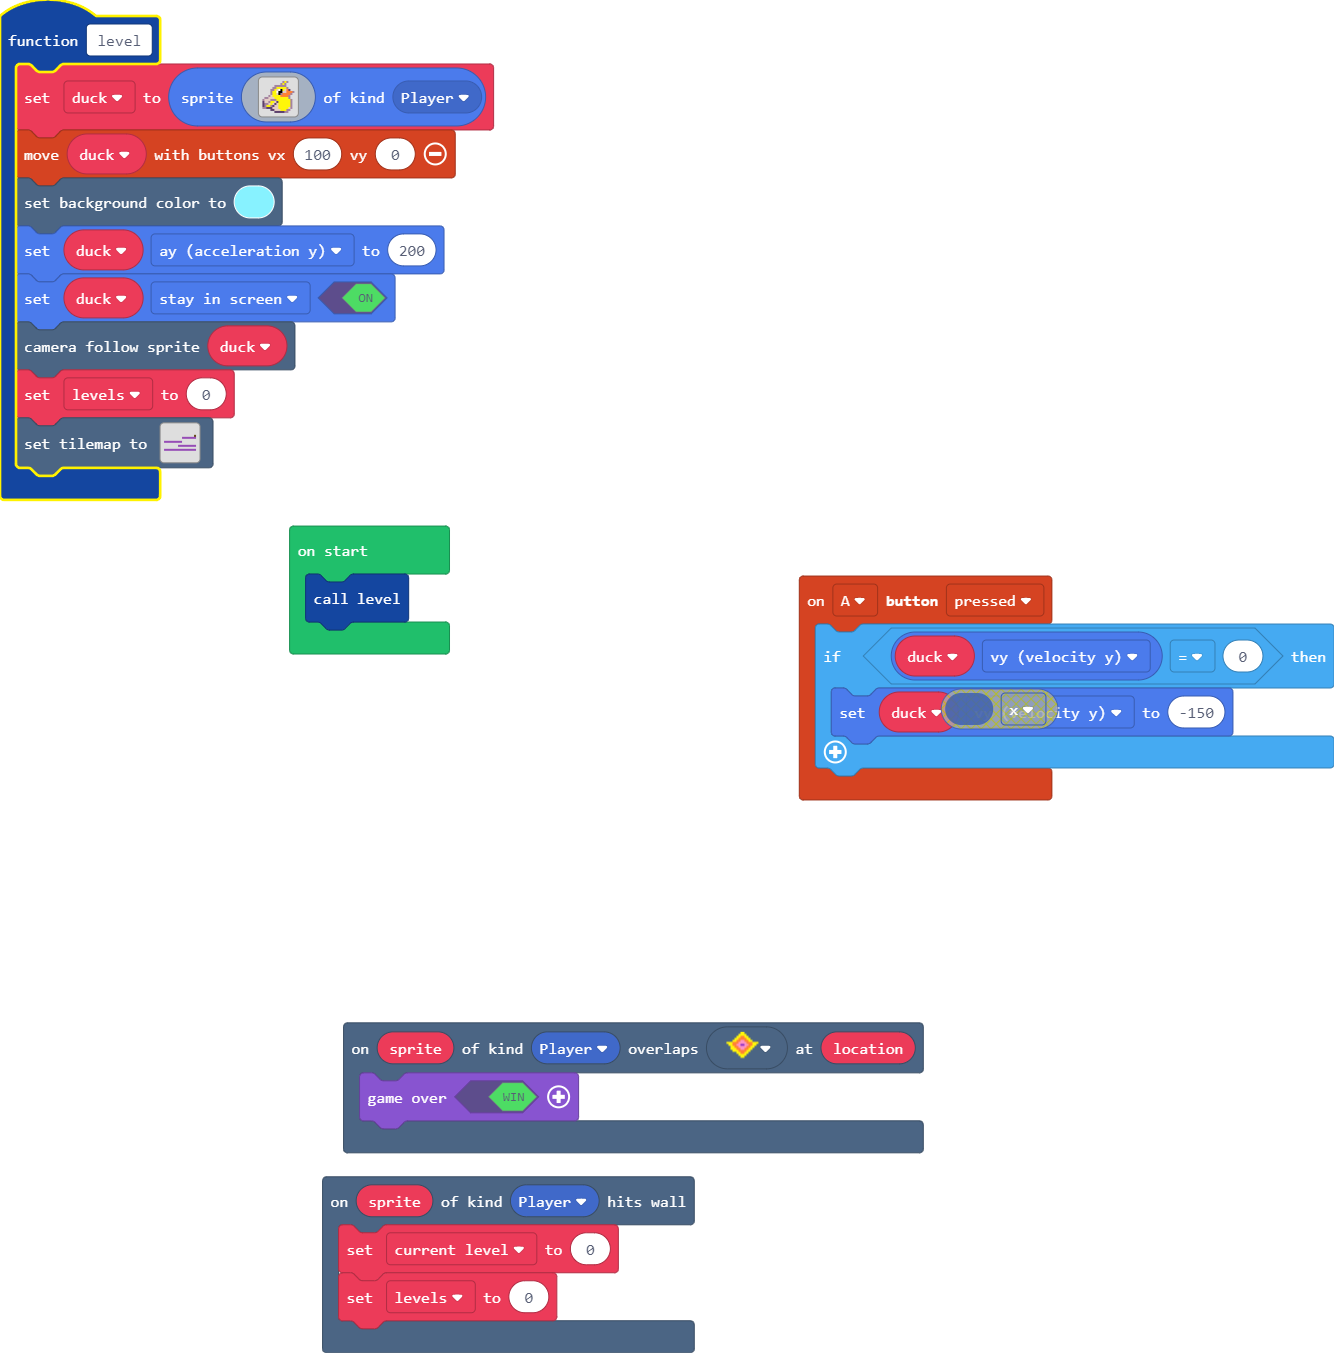
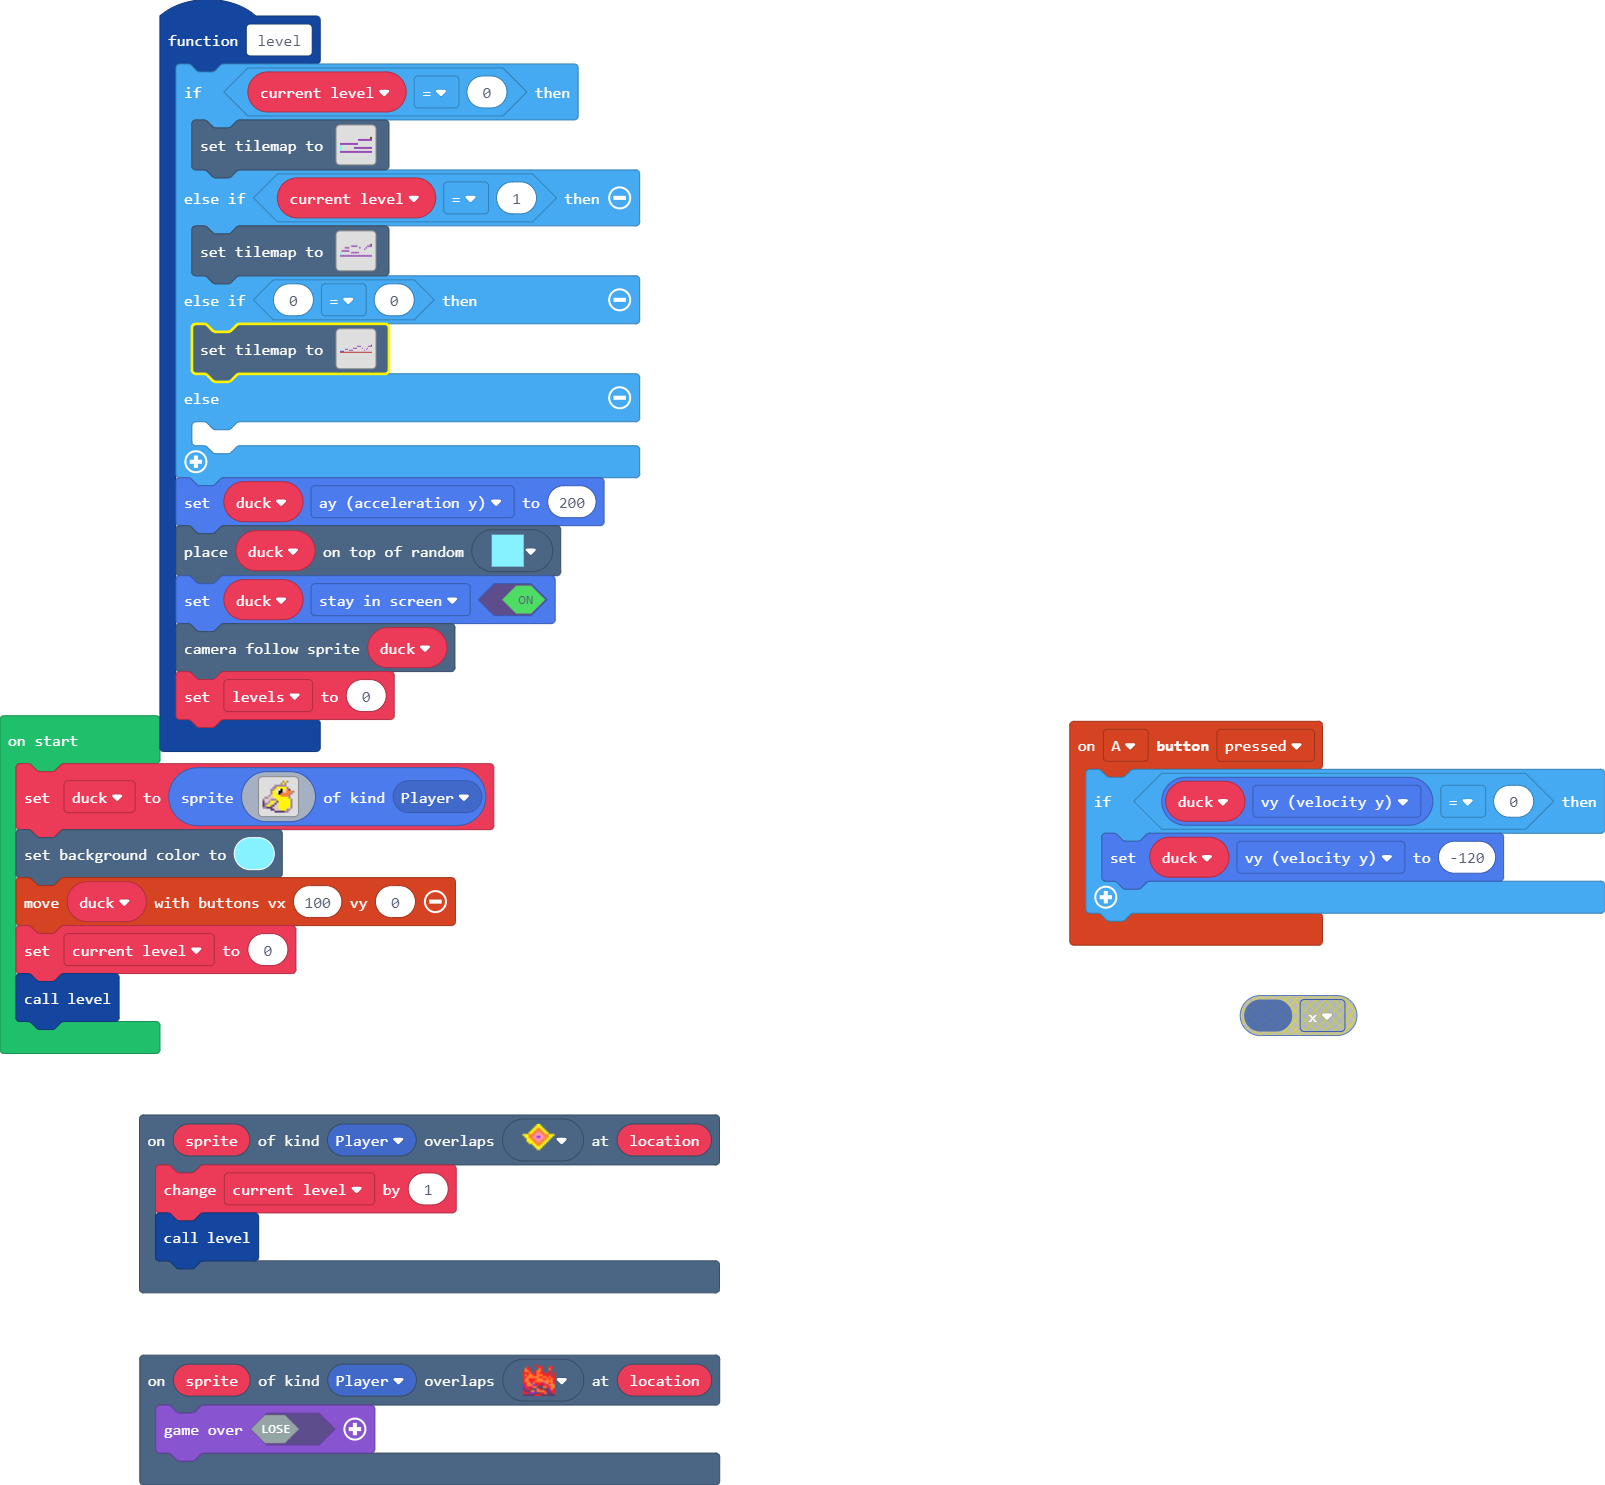
creating new levels and challenges

diff --git a/main.ts b/main.ts
@@ -75,9 +75,176 @@ a a a a a a a a a a a a a a a a
 . . . . . . . . . . . . . . . . 
 . . . . . . . . . . . . . . . . 
 `
+    //% blockIdentity=images._tile
+    export const tile4 = img`
+. . . . . . . . . . . . . . . . 
+. . . . . . . . . . . . . . . . 
+. . . . . . . . . . . . . . . . 
+. . . . . . . . . . . . . . . . 
+. . . . . . . . . . . . . . . . 
+. . . . . . . . . . . . . . . . 
+. . . . . . . . . . . . . . . . 
+. . . . . . . . . . . . . . . . 
+. . . . . . . . . . . . . . . . 
+3 . . . . . . . . . . . . . . . 
+. . . . . . . . . . . . . . . . 
+. . . . . . . . . . . . . . . . 
+. . . . . . . . . . . . . . . . 
+. . . . . . . . . . . . . . . . 
+. . . . . . . . . . . . . . . . 
+. . . . . . . . . . . . . . . . 
+`
+    //% blockIdentity=images._tile
+    export const tile5 = img`
+9 9 9 9 9 9 9 9 9 9 9 9 9 9 9 9 
+9 9 9 9 9 9 9 9 9 9 9 9 9 9 9 9 
+9 9 9 9 9 9 9 9 9 9 9 9 9 9 9 9 
+9 9 9 9 9 9 9 9 9 9 9 9 9 9 9 9 
+9 9 9 9 9 9 9 9 9 9 9 9 9 9 9 9 
+9 9 9 9 9 9 9 9 9 9 9 9 9 9 9 9 
+9 9 9 9 9 9 9 9 9 9 9 9 9 9 9 9 
+9 9 9 9 9 9 9 9 9 9 9 9 9 9 9 9 
+9 9 9 9 9 9 9 9 9 9 9 9 9 9 9 9 
+9 9 9 9 9 9 9 9 9 9 9 9 9 9 9 9 
+9 9 9 9 9 9 9 9 9 9 9 9 9 9 9 9 
+9 9 9 9 9 9 9 9 9 9 9 9 9 9 9 9 
+9 9 9 9 9 9 9 9 9 9 9 9 9 9 9 9 
+9 9 9 9 9 9 9 9 9 9 9 9 9 9 9 9 
+9 9 9 9 9 9 9 9 9 9 9 9 9 9 9 9 
+9 9 9 9 9 9 9 9 9 9 9 9 9 9 9 9 
+`
+    //% blockIdentity=images._tile
+    export const tile6 = img`
+. . . . . . . . . . . . . . . . 
+. . 2 2 . . . . . . . . . . . . 
+. . 2 . . . 2 2 . . . 2 2 . 2 2 
+. 2 2 . . 2 2 . . . . . 2 . 2 2 
+2 2 2 2 2 2 2 . . . . . 2 . 2 2 
+2 2 2 2 2 2 2 2 2 . 2 2 2 2 . 2 
+2 2 2 2 2 2 2 2 2 2 2 2 2 2 2 2 
+2 2 2 2 . 2 2 2 2 2 2 2 2 2 2 2 
+2 2 2 2 2 2 2 2 2 2 2 2 2 2 2 2 
+2 2 2 2 2 2 2 2 2 . 2 2 2 2 2 2 
+2 2 2 2 2 2 2 2 2 2 2 2 2 2 2 2 
+2 2 2 2 2 2 2 2 2 2 2 2 2 2 2 2 
+2 2 2 2 2 2 2 2 2 2 2 2 2 2 2 2 
+2 2 2 2 2 2 2 2 2 2 2 2 2 2 2 2 
+2 2 2 2 2 2 2 2 2 2 2 2 2 2 2 2 
+2 2 2 2 2 2 2 2 2 2 2 2 2 2 2 2 
+`
+    //% blockIdentity=images._tile
+    export const tile7 = img`
+. . . . . . . . . . . . . . . . 
+2 2 2 2 2 2 . . . . 2 2 . . . . 
+2 2 2 2 . 2 2 . . 2 2 2 2 2 . . 
+2 2 2 2 2 2 2 2 . . . 2 2 2 2 . 
+2 2 2 2 2 2 . . . . . 2 2 2 2 . 
+2 2 2 2 2 2 2 . . . . 2 2 2 2 . 
+2 2 2 2 2 2 2 2 . . 2 2 2 2 2 2 
+2 2 2 2 2 2 2 2 2 2 2 2 2 2 2 2 
+2 2 2 2 2 2 2 2 2 2 2 2 2 2 2 2 
+2 2 2 2 2 2 2 2 2 2 2 2 2 2 2 2 
+2 2 2 2 2 2 2 2 2 2 2 2 2 2 2 2 
+2 2 2 2 2 2 2 2 2 2 2 2 2 2 2 2 
+2 2 2 2 2 2 2 2 2 2 2 2 2 2 2 2 
+2 2 2 2 2 2 2 2 2 2 2 2 2 2 2 2 
+2 2 2 2 2 2 2 2 2 2 2 2 2 2 2 2 
+2 2 2 2 2 2 2 2 2 2 2 2 2 2 2 2 
+`
+    //% blockIdentity=images._tile
+    export const tile8 = img`
+. . . . . . 2 . . . . . . . . . 
+. . 2 . . . . 2 2 2 . . . 2 2 . 
+. 4 2 2 . . . . 4 2 . . . 4 2 . 
+2 4 4 2 . . 2 4 4 2 . . . 2 . . 
+2 2 2 4 2 . 2 4 2 2 2 . 2 2 . 2 
+2 4 2 4 4 2 2 4 4 4 2 2 2 2 . 2 
+2 2 4 4 4 4 4 4 2 2 4 4 2 4 2 2 
+2 4 4 2 2 2 2 4 4 4 2 2 4 2 4 2 
+2 4 4 2 2 2 4 4 4 4 4 4 4 4 4 2 
+2 2 4 4 a 4 2 2 2 2 a 4 4 2 4 2 
+a 2 4 4 4 a a 2 2 c 2 2 a 4 4 4 
+a 2 2 a 2 4 4 c c c 4 4 2 2 4 4 
+c a 2 2 c c c 4 2 c c c c a 4 2 
+2 c c c 4 4 a 4 4 4 4 2 c a 2 2 
+2 2 2 a a a c c c 2 2 4 c c c 2 
+c c c c c c 2 2 2 c c c c c c c 
+`
 }
 function level () {
-    duck = sprites.create(img`
+    if (current_level == 0) {
+        tiles.setTilemap(tiles.createTilemap(
+            hex`100008000000000000000000000000000000000300000000000000000001010101010101000000000000000000000000000000000101010101010101010000000000000005000000000000000000000000000000050000000000000101010101010101010500000000000000000000000000000001010101010101010101010101010101`,
+            img`
+. . . . . . . . . . . . . . . . 
+. . . . . . . . . 2 2 2 2 2 2 2 
+. . . . . . . . . . . . . . . . 
+2 2 2 2 2 2 2 2 2 . . . . . . . 
+. . . . . . . . . . . . . . . . 
+. . . . . . . 2 2 2 2 2 2 2 2 2 
+. . . . . . . . . . . . . . . . 
+2 2 2 2 2 2 2 2 2 2 2 2 2 2 2 2 
+`,
+            [myTiles.tile0,myTiles.tile1,myTiles.tile2,myTiles.tile3,myTiles.tile4,myTiles.tile5,myTiles.tile6,myTiles.tile7,myTiles.tile8],
+            TileScale.Sixteen
+        ))
+    } else if (current_level == 1) {
+        tiles.setTilemap(tiles.createTilemap(
+            hex`1400080000000000000000000000000000000000000000030000000000000001010101000000000000010101000000010101000000000000010000000100000000000000000000000000000000000001000000000001010101010000000000000000000000000000050000000000000101010101000000000000000005000000000000000000000000000000000000000101010101010101010101010101010101010101`,
+            img`
+. . . . . . . . . . . . . . . . . . . . 
+. . . . . . . 2 2 2 2 . . . . . . 2 2 2 
+. . . 2 2 2 . . . . . . 2 . . . 2 . . . 
+. . . . . . . . . . . . . . . 2 . . . . 
+. 2 2 2 2 2 . . . . . . . . . . . . . . 
+. . . . . . . 2 2 2 2 2 . . . . . . . . 
+. . . . . . . . . . . . . . . . . . . . 
+2 2 2 2 2 2 2 2 2 2 2 2 2 2 2 2 2 2 2 2 
+`,
+            [myTiles.tile0,myTiles.tile1,myTiles.tile2,myTiles.tile3,myTiles.tile4,myTiles.tile5,myTiles.tile6,myTiles.tile7,myTiles.tile8],
+            TileScale.Sixteen
+        ))
+    } else if (0 == 0) {
+        tiles.setTilemap(tiles.createTilemap(
+            hex`2000080000000000000000000000000000000000000000000000000000000000000000030000000000000000000000000000000000010101010000000000000001010101000000000000000000000000000000000000000000000000000000000000000000000000000000000000000000010101010000000000010000000001000000000500000000010101000000000000000000000000000000000000010000000000050000000000000000010101010000000000000000000000010000000000000001010101000000000000000000000000000000000000000000000000000000000808080808080808080808080808080808080808080808080808080808080808`,
+            img`
+. . . . . . . . . . . . . . . . . . . . . . . . . . . . . . . . 
+. . . . . . . . . . . . . . . . . . . . . . . . . . . . . . . . 
+. . . . . . . . . . . . . . . . . . . . . . . . . . . . . . . . 
+. . . . . . . . . . . . . . . . . . . . . . . . . . . . . . . . 
+. . . . . . . . . . . . . . . . . . . . . . . . . . . . . . . . 
+. . . . . . . . . . . . . . . . . . . . . . . . . . . . . . . . 
+. . . . . . . . . . . . . . . . . . . . . . . . . . . . . . . . 
+. . . . . . . . . . . . . . . . . . . . . . . . . . . . . . . . 
+`,
+            [myTiles.tile0,myTiles.tile1,myTiles.tile2,myTiles.tile3,myTiles.tile4,myTiles.tile5,myTiles.tile6,myTiles.tile7,myTiles.tile8],
+            TileScale.Sixteen
+        ))
+    } else {
+    	
+    }
+    duck.ay = 200
+    tiles.placeOnRandomTile(duck, myTiles.tile5)
+    duck.setFlag(SpriteFlag.StayInScreen, true)
+    scene.cameraFollowSprite(duck)
+    levels = 0
+}
+scene.onOverlapTile(SpriteKind.Player, myTiles.tile3, function (sprite, location) {
+    current_level += 1
+    level()
+})
+controller.A.onEvent(ControllerButtonEvent.Pressed, function () {
+    if (duck.vy == 0) {
+        duck.vy = -120
+    }
+})
+scene.onOverlapTile(SpriteKind.Player, myTiles.tile8, function (sprite, location) {
+    game.over(false)
+})
+let levels = 0
+let current_level = 0
+let duck: Sprite = null
+duck = sprites.create(img`
 . . . . . . . . . . b 5 b . . . 
 . . . . . . . . . b 5 b . . . . 
 . . . . . . b b b b b b . . . . 
@@ -95,41 +262,7 @@ b b c c c d d d 5 5 5 5 5 d b .
 . . . . c c d d d 5 5 5 b b . . 
 . . . . . . c c c c c b b . . . 
 `, SpriteKind.Player)
-    controller.moveSprite(duck, 100, 0)
-    scene.setBackgroundColor(9)
-    duck.ay = 200
-    duck.setFlag(SpriteFlag.StayInScreen, true)
-    scene.cameraFollowSprite(duck)
-    levels = 0
-    tiles.setTilemap(tiles.createTilemap(
-            hex`100008000000000000000000000000000000000300000000000000000001010101010101000000000000000000000000000000000101010101010101010000000000000000000000000000000000000000000000000000000000000101010101010101010000000000000000000000000000000001010101010101010101010101010101`,
-            img`
-. . . . . . . . . . . . . . . . 
-. . . . . . . . . 2 2 2 2 2 2 2 
-. . . . . . . . . . . . . . . . 
-2 2 2 2 2 2 2 2 2 . . . . . . . 
-. . . . . . . . . . . . . . . . 
-. . . . . . . 2 2 2 2 2 2 2 2 2 
-. . . . . . . . . . . . . . . . 
-2 2 2 2 2 2 2 2 2 2 2 2 2 2 2 2 
-`,
-            [myTiles.tile0,myTiles.tile1,myTiles.tile2,myTiles.tile3],
-            TileScale.Sixteen
-        ))
-}
-scene.onHitWall(SpriteKind.Player, function (sprite) {
-    current_level = 0
-    levels = 0
-})
-scene.onOverlapTile(SpriteKind.Player, myTiles.tile3, function (sprite, location) {
-    game.over(true)
-})
-controller.A.onEvent(ControllerButtonEvent.Pressed, function () {
-    if (duck.vy == 0) {
-        duck.vy = -150
-    }
-})
-let current_level = 0
-let levels = 0
-let duck: Sprite = null
+scene.setBackgroundColor(9)
+controller.moveSprite(duck, 100, 0)
+current_level = 0
 level()
